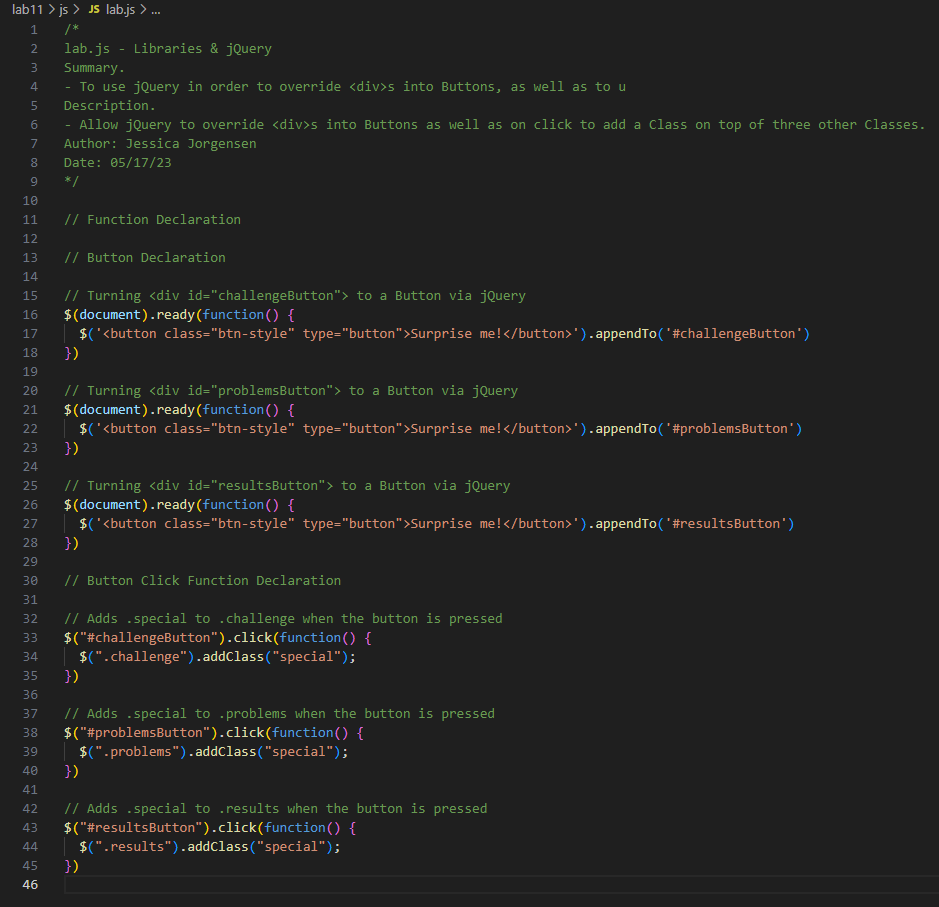
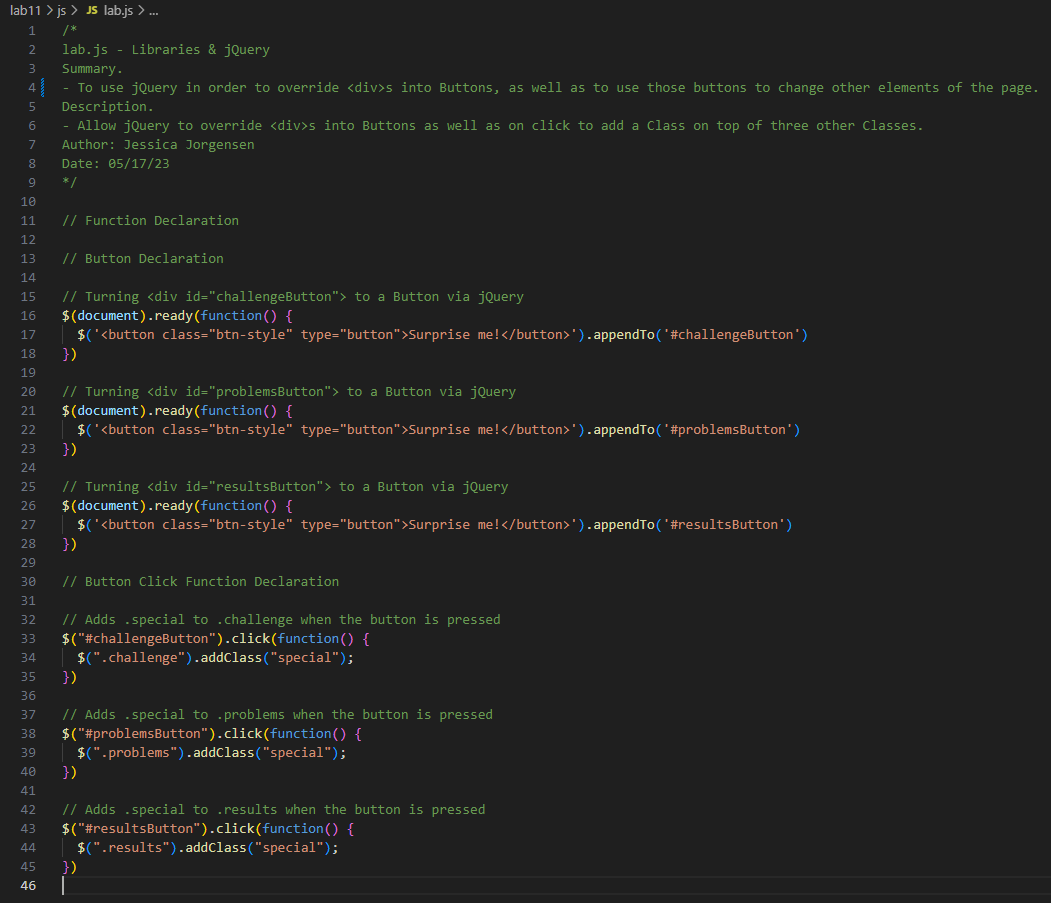
Lab 11, 2

Changed region(s): [[0.0, 0.2791, 0.8647, 0.9922], [0.0, 0.0, 0.9883, 0.186], [0.0, 0.2171, 0.2471, 0.2481]]

diff --git a/lab11/js/lab.js b/lab11/js/lab.js
@@ -1,7 +1,7 @@
 /* 
 lab.js - Libraries & jQuery
 Summary.
-- To use jQuery in order to override <div>s into Buttons, as well as to u
+- To use jQuery in order to override <div>s into Buttons, as well as to use those buttons to change other elements of the page.
 Description.
 - Allow jQuery to override <div>s into Buttons as well as on click to add a Class on top of three other Classes.
 Author: Jessica Jorgensen
